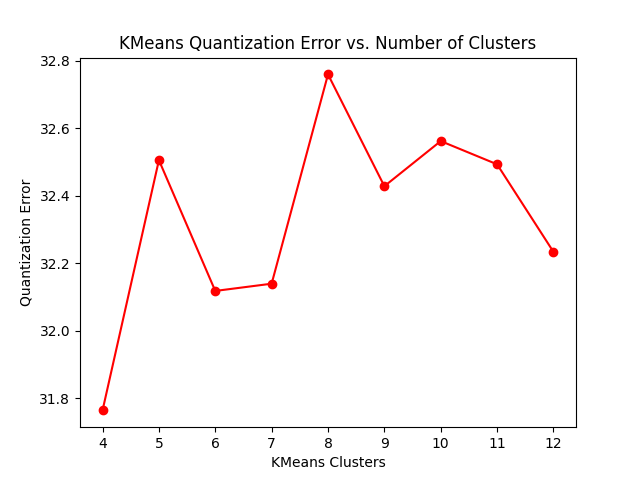
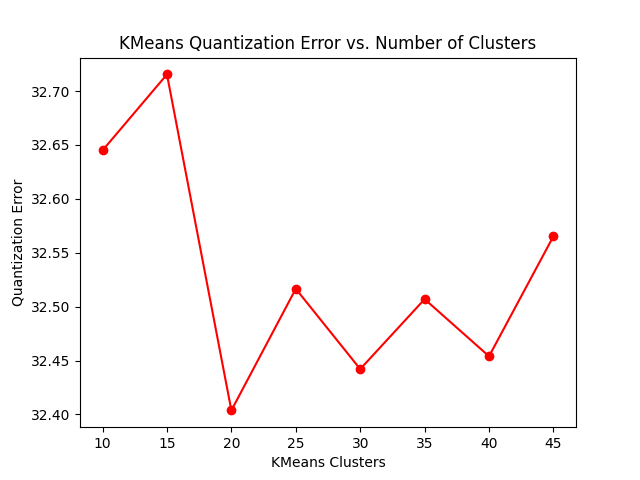
update kmeans quantization

diff --git a/Quantization_Practice/Kmeans_Quantization_Analysis.py b/Quantization_Practice/Kmeans_Quantization_Analysis.py
@@ -26,7 +26,8 @@ term4Ans=np.load('assets/term4Ans.npy')
 
 
 # 定義KMeans的量化範數
-cluster_range = range(4, 13)
+cluster_range = range(10, 50, 5)
+
 
 # 儲存量化誤差的列表
 kmeans_quantization_errors = []
@@ -87,6 +88,23 @@ for n_clusters in cluster_range:
 
     L1outNorm_kmeans = ((L1out_kmeans - min_val) / (max_val - min_val) * 255)
     ansNorm_kmeans = ((ans0 - min_val) / (max_val - min_val) * 255)
+
+     # 顯示每次量化後的結果
+    # plt.figure(figsize=(10, 5))
+
+    # 顯示L1outNorm_kmeans
+    # plt.subplot(1, 2, 1)
+    # plt.imshow(L1outNorm_kmeans[0], cmap='gray')
+    # plt.title(f'L1out - {n_clusters} clusters (KMeans)')
+    # plt.colorbar()
+
+    # 顯示ansNorm_kmeans
+    # plt.subplot(1, 2, 2)
+    # plt.imshow(ansNorm_kmeans[0], cmap='gray')
+    # plt.title(f'ansNorm - {n_clusters} clusters (KMeans)')
+    # plt.colorbar()
+
+    # plt.show()
 
     # 計算KMeans的量化誤差
     kmeans_loss = np.mean(np.abs(L1outNorm_kmeans - ansNorm_kmeans))
